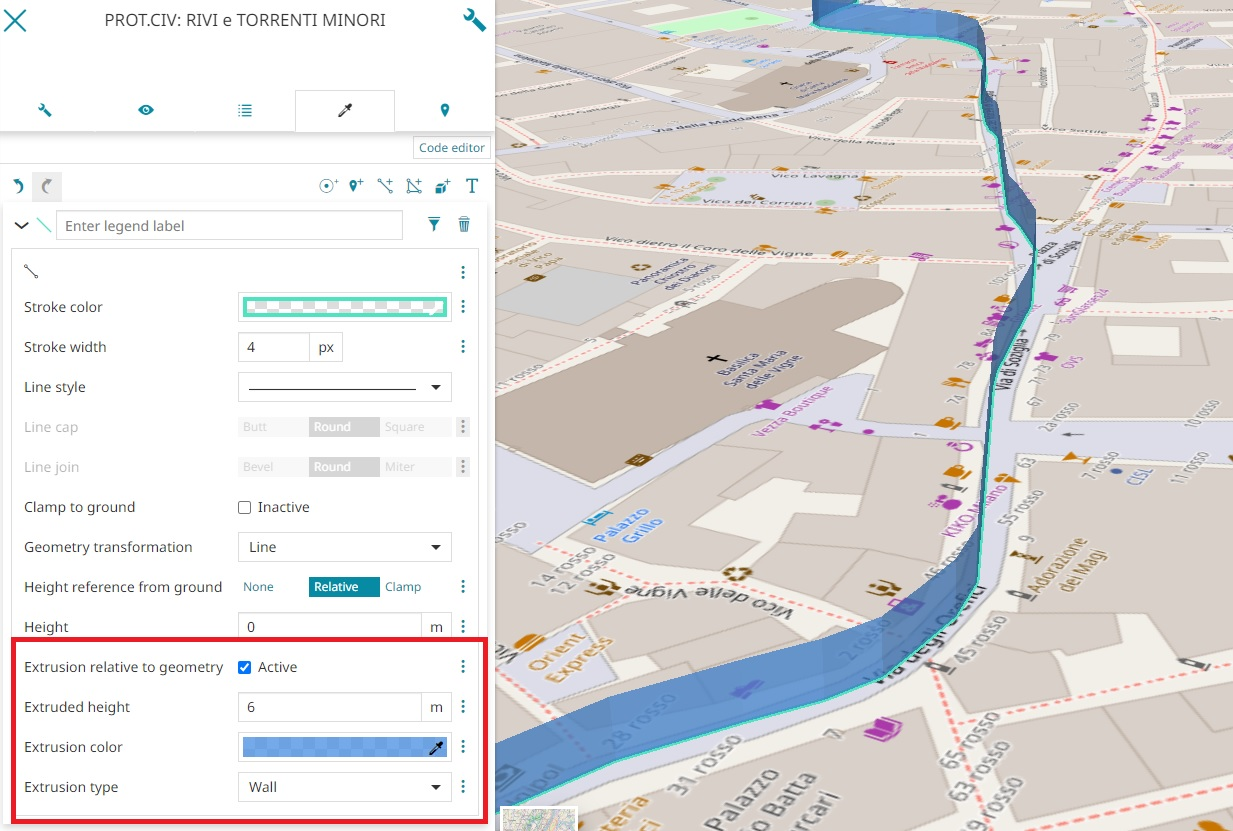
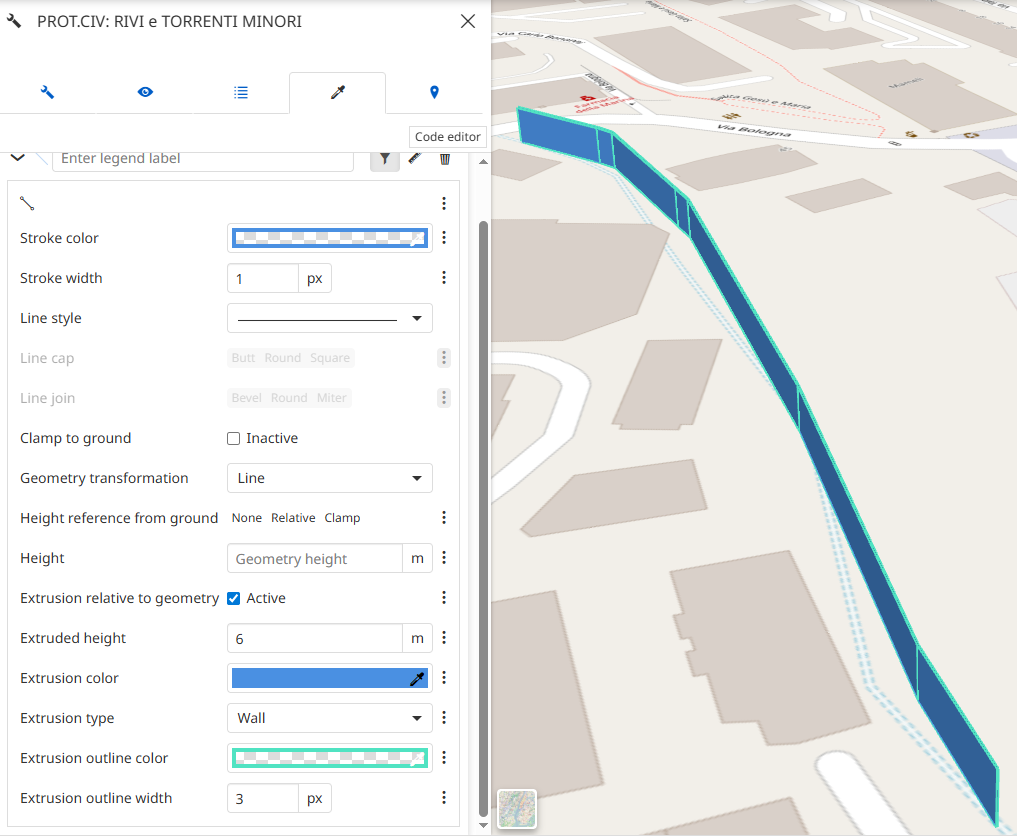
Update User Guide - extrusionOutline option for extruded features #12275 (#12278)
* add_12275

* add2_12275

* add3_12275

* Update docs/user-guide/annotations.md

* Update docs/user-guide/layer-settings.md

---------

diff --git a/docs/user-guide/annotations.md b/docs/user-guide/annotations.md
@@ -177,6 +177,6 @@ Furthermore, for the [3D Navigation](navigation-toolbar.md#3d-navigation), [MapS
 
 <img src="../img/annotations/polygon-type.jpg" class="ms-docimage">
 
-* **Extrusion Height** (available for Line and Fill geometries) to configure the height value of the feature to be extruded. It is also possible to enable/disable the **Extrusion relative to geometry** (from the highest point of the feature geometry) and, only for the *Line* geometries, the user can customize the **Extrusion color** and the **Extrusion type**, choosing between `Wall`, `Circle` and `Square` options, for the extruded features.
+* **Extrusion Height** (available for Line and Fill geometries) to configure the height value of the feature to be extruded. It is also possible to enable/disable the **Extrusion relative to geometry** (from the highest point of the feature geometry) and customize the *Extrusion color*, the *Extrusion Outline color* and the *Extrusion Outline width*. For *Line* geometries only, the user can customize the **Extrusion type**, choosing between `Wall`, `Circle` and `Square` options, for the extruded features.
 
 <img src="../img/annotations/extrusion-geometry.jpg" class="ms-docimage">

diff --git a/docs/user-guide/layer-settings.md b/docs/user-guide/layer-settings.md
@@ -520,7 +520,7 @@ Furthermore, for **WFS layers**, [MapStore](https://mapstore.geosolutionsgroup.c
 
 <img src="../img/layer-settings/polygon-type.jpg" class="ms-docimage">
 
-* **Extrusion Height** (available for Line and Fill symbolizers) to configure the height value of the feature to be extruded. It is also possible to enable/disable the **Extrusion relative to geometry** (from the highest point of the feature geometry) and, only for the *Line* symbolizers, the user can customize the **Extrusion color** and the **Extrusion type**, choosing between `Wall`, `Circle` and `Square` options, for the extruded features.
+* **Extrusion Height** (available for Line and Fill symbolizers) to configure the height value of the feature to be extruded. It is also possible to enable/disable the **Extrusion relative to geometry** (from the highest point of the feature geometry) and customize the *Extrusion color*, the *Extrusion Outline color* and the *Extrusion Outline width*. For *Line* geometries only, the user can customize the **Extrusion type**, choosing between `Wall`, `Circle` and `Square` options, for the extruded features.
 
 <img src="../img/layer-settings/extrusion.jpg" class="ms-docimage">
 